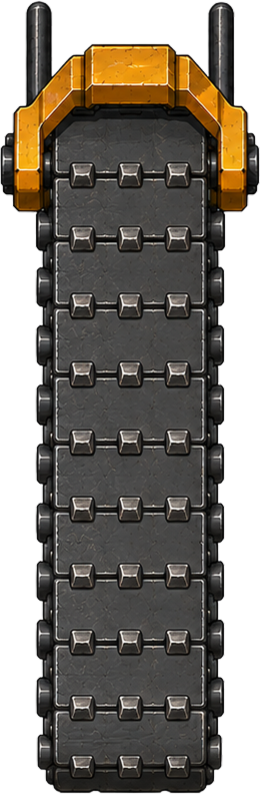
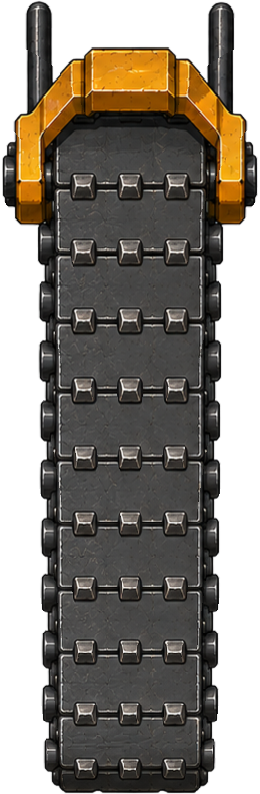
jaya

diff --git a/game.js b/game.js
@@ -296,9 +296,15 @@ class GameScene extends Phaser.Scene {
         // Shared white glow texture used by charge effects (additive blend)
         this.load.image('glow', 'graphics/gadgets/glow.png');
 
-        // The boring machine's art (sliced into tip/spiral/cap at create).
+        // The trencher's art: two parts, each its own 5-frame animation. They
+        // are separate sprites (not one sheet) so each part's frames stay
+        // coherent on their own — see TUNNEL.TRENCHER.
         if (CONFIG.ROAD && CONFIG.ROAD.ENABLED) {
-            this.load.image('auger_src', 'graphics/auger.png');
+            const TR = CONFIG.ROAD.TUNNEL.TRENCHER;
+            for (let i = 1; i <= (TR.FRAMES || 5); i++) {
+                this.load.image(`trencher_belt_${i}`, `graphics/trencher/belt/belt${i}.png`);
+                this.load.image(`trencher_ctrl_${i}`, `graphics/trencher/control_unit/control_unit${i}.png`);
+            }
         }
 
         // Tile map: the level layout (.tmj) plus one image per tile type.
@@ -1697,17 +1703,15 @@ console.log(
     }
 
     // ================================================================
-    // THE BORING MACHINE (battery-powered)
+    // THE TRENCHING MACHINE (battery-powered)
     // ================================================================
-    // Merged batteries bank digging distance; the auger cuts the channel
-    // bottom → top. The apparent rotation is the barber-pole illusion: a helix
-    // spinning about its long axis reads, from above, as its flights sliding
-    // ALONG the axis — so the shaft is a TileSprite whose helix texture
-    // scrolls, with the cylinder shading baked in per-column (x-only, so
-    // scrolling never disturbs it).
+    // Merged batteries bank digging distance; the trencher cuts the channel
+    // bottom → top. It is a heavy trencher, not a borer: the spiked belt at the
+    // front chews the face and the rig REVERSES up the band as the trench opens
+    // behind it, control unit trailing. Both parts are driven by one number —
+    // the reveal line (progressPx) — so they can never drift apart.
     createTunnel(band, seg) {
         const TN = CONFIG.ROAD.TUNNEL;
-        const s  = (v) => v * this.layoutConfig.platformScale;
         const r  = this.road;
 
         // Entry = the head of the canal already built at the bottom of the
@@ -1718,25 +1722,37 @@ console.log(
         const exitY  = band.bandTop;
         const len    = entryY - exitY;
 
-        // The bore is the channel plus a margin of loose ground each side.
-        const margin = s(TN.MARGIN);
-        const boreW  = r.canalW + margin * 2;
-        // The machine is the auger.png art, sliced into tip / spiral / cap by
-        // _makeTunnelTextures. Its flight is the widest part, scaled to nearly
-        // fill the bore.
-        const mw = Math.max(8, Math.round(boreW * (TN.BLADE_DIAM || 0.82)));
-        // The soil strip is CHANNEL-sized, not bore-sized: what the blade
-        // leaves behind is exactly as wide as the finished canal.
+        // The soil strip is CHANNEL-sized: what the machine leaves behind is
+        // exactly as wide as the finished canal.
         const cutW = Math.round(r.canalW);
         this._makeTunnelTextures(cutW);
 
-        const bladeLen = s(TN.BLADE_LEN);
-        // One uniform scale maps the art onto the machine width; tip and cap
-        // keep the art's proportions, the spiral section fills the rest of
-        // BLADE_LEN (measured behind the face).
-        const sc    = mw / this.textures.get('auger_mid').getSourceImage().width;
-        const capH  = this.textures.get('auger_tail').getSourceImage().height * sc;
-        const bodyH = Math.max(4, bladeLen - capH);
+        // ── Trencher geometry ─────────────────────────────────────────────
+        // One ratio sizes the whole rig: the belt art's width maps onto
+        // BELT_TILES tile widths, and every other source-px number rides that
+        // same ratio, so the two parts keep their authored proportions and
+        // their spacing at any tile size.
+        const TR   = TN.TRENCHER;
+        // Off the tilemap (no grid) the main canal's own width stands in: it is
+        // MAIN_TILES tiles across.
+        const tile = (this.tileGrid && this.tileGrid.tile)
+                   || r.canalW / (CONFIG.ROAD.TILEMAP.MAIN_TILES || 2);
+        const tsc  = tile * (TR.BELT_TILES || 1) / TR.BELT_W;
+        const beltW = TR.BELT_W * tsc, beltH = TR.BELT_H * tsc;
+        const ctrlW = TR.CTRL_W * tsc, ctrlH = TR.CTRL_H * tsc;
+        // Offsets from the reveal line (the dig runs up-screen, so -y is ahead
+        // of the machine and +y is back over the open trench). AHEAD_FRAC of
+        // the belt sits on the uncut side of the line, the rest trails over the
+        // trench; the control unit LEADS, CTRL_GAP ahead of the belt's centre.
+        const ahead  = TR.AHEAD_FRAC !== undefined ? TR.AHEAD_FRAC : 0.4;
+        const beltDY = (0.5 - ahead) * beltH;
+        const ctrlDY = beltDY - TR.CTRL_GAP * tsc;
+        // The rig's length for the water: the waterline is held back until the
+        // rear of the BELT — the trailing part — has passed, so the canal never
+        // fills under the machine.
+        const bladeLen = beltDY + beltH / 2;
+        // Spoil sprays over the belt's trailing half.
+        const bodyH = Math.max(4, beltH * (1 - ahead));
 
         // The water for the whole stretch is drawn complete at create and
         // hidden behind a mask that follows the blade, so it appears
@@ -1765,31 +1781,30 @@ console.log(
         const revealMask = maskShape.createGeometryMask();
         roadGfx.setMask(revealMask);
 
-        // The machine: a FIXED-length rig that climbs with the face — head at
-        // the front, a machine-length of auger behind it. It parks at the head
-        // of the built canal and digs upward. Drawn above the water it leaves.
+        // The machine: a fixed rig that travels with the face. It parks at the
+        // head of the built canal and works upward. Drawn above the water it
+        // leaves behind.
         const x = band.cx;
         // The raw cut: a strip of churned soil over the dug wake, face back
         // to the mouth it started from.
         const cut = this._addB(this.add.tileSprite(x, entryY, cutW, 1, 'cut_sand')
             .setOrigin(0.5, 0).setDepth(2.05).setVisible(false), seg);
-        // Three stacked slices of the art: pointed tip biting into the face,
-        // the spiral section behind it (a TileSprite — scrolling its UVs is
-        // the rotation), and the drive cap at the rear. The slice edges all
-        // sit at bare-shaft rows, so they join cleanly.
-        const head = this._addB(this.add.image(x, entryY, 'auger_tip')
-            .setOrigin(0.5, 1).setScale(sc).setDepth(2.25), seg);
-        const shaft = this._addB(this.add.tileSprite(x, entryY, mw, bodyH, 'auger_mid')
-            .setOrigin(0.5, 0).setTileScale(sc).setDepth(2.2), seg);
-        const tail = this._addB(this.add.image(x, entryY + bodyH, 'auger_tail')
-            .setOrigin(0.5, 0).setScale(sc).setDepth(2.2), seg);
-        const wobble = this.tweens.add({ targets: head, x: x + Math.max(1, s(0.8)),
-                          duration: 55, yoyo: true, repeat: -1, paused: true });
-        const bore = { x, cut, shaft, tail, head, wobble };
+        // Two sprites, one rig. The trenching unit is drawn ABOVE the control
+        // unit so the belt reads as passing over the machine's frame. Both are
+        // parked on frame 1 and only run while the machine is working.
+        this._makeTrencherAnims();
+        const flip = !!TR.FLIP_Y;
+        const belt = this._addB(this.add.sprite(x, entryY + beltDY, 'trencher_belt_1')
+            .setDisplaySize(beltW, beltH).setFlipY(flip).setDepth(2.25), seg);
+        const ctrl = this._addB(this.add.sprite(x, entryY + ctrlDY, 'trencher_ctrl_1')
+            .setDisplaySize(ctrlW, ctrlH).setFlipY(flip).setDepth(2.2), seg);
+        belt.play('trencher_belt'); belt.anims.pause();
+        ctrl.play('trencher_ctrl'); ctrl.anims.pause();
+        const bore = { x, cut, belt, ctrl, beltDY, ctrlDY, rigW: beltW };
 
         // No grass overlay in tile-map mode — the base layer already shows
         // grass down the centre, and the flood reveals the dug main-canal tiles
-        // over it as the auger climbs.
+        // over it as the machine climbs.
 
         // Cracks in the grass just ahead of the blade — drawn over the not-yet
         // dug ground (below the machine), redrawn each frame at the current
@@ -1798,12 +1813,12 @@ console.log(
         crack._noRebase = true;
 
         // The machine advances off a banked-charge account: one progress
-        // value drives the shaft, the mask and the head.
+        // value drives the rig, the mask and the reveal.
         this.tunnel = {
-            entryY, exitY, len, bladeLen, bodyH, texScale: sc,
+            entryY, exitY, len, bladeLen, bodyH,
             progressPx: 0, earnedPx: 0, open: false, lastTime: 0, pulseT: 0,
             wet: 0,                          // how far the water has actually come
-            bore, maskShape, foam: foamGfx, crack, crackW: mw, chips: [], debrisAcc: 0,
+            bore, maskShape, foam: foamGfx, crack, crackW: beltW, chips: [], debrisAcc: 0,
             flood: this._buildFlood(seg, band),   // canal water (tilemap only)
             seg: seg || null,
             // A dig site built ahead (endless: the NEXT band, while the
@@ -1815,34 +1830,45 @@ console.log(
         if (seg) seg.tunnel = this.tunnel;
     }
 
-    // Slice the auger.png art into the machine's three stacked parts.
-    //
-    // The art already points UP (drill tip at the top, drive cap at the
-    // bottom) — the same way the machines drill — so the slices are straight
-    // crops, no flip. The cut rows are fractions of the art height, measured
-    // from the pixels: spiral section 0.209·H–0.828·H is exactly two flight
-    // pitches with near-bare shaft at both edges, so it tiles seamlessly and
-    // its UVs scroll forever. The static slices must contain NO ribbon (a
-    // non-scrolling wrap reads as a stalled blade): the tip is only the
-    // featureless cone point (above 0.118·H), the tail only bare shaft and
-    // the drive cap (below 0.828·H).
+    // The two trencher loops, built once and shared by every segment's rig.
+    // Each part's frames are separate images (not a sheet), so the animation is
+    // an explicit frame list. Both loop forever; the machine drives them by
+    // pausing/resuming, never by restarting — a resumed loop carries on from
+    // the frame it stopped on, which is what makes a stall read as a stall.
+    _makeTrencherAnims() {
+        if (this.anims.exists('trencher_belt')) return;
+        const TR = CONFIG.ROAD.TUNNEL.TRENCHER;
+        const n  = TR.FRAMES || 5;
+        const list = (prefix) => {
+            const f = [];
+            for (let i = 1; i <= n; i++) f.push({ key: `${prefix}${i}` });
+            return f;
+        };
+        this.anims.create({ key: 'trencher_belt', frames: list('trencher_belt_'),
+                            frameRate: TR.BELT_FPS || 12, repeat: -1 });
+        this.anims.create({ key: 'trencher_ctrl', frames: list('trencher_ctrl_'),
+                            frameRate: TR.CTRL_FPS || 12, repeat: -1 });
+    }
+
+    // Belt runs only while the machine is actually cutting; the control unit
+    // only while the rig is actually travelling. Anything else freezes both on
+    // the frame they stopped at.
+    _setTrencherRunning(tn, cutting, moving) {
+        const b = tn && tn.bore;
+        if (!b || !b.belt) return;
+        const set = (spr, on) => {
+            if (!spr || !spr.anims) return;
+            if (on) { if (spr.anims.isPaused) spr.anims.resume(); }
+            else if (!spr.anims.isPaused) spr.anims.pause();
+        };
+        set(b.belt, cutting);
+        set(b.ctrl, moving);
+    }
+
     _makeTunnelTextures(cutW) {
         // Dimensions are identical for every segment, so bake once and reuse —
         // never remove textures a previous segment's sprites still display.
-        if (this.textures.exists('auger_mid') && this.textures.exists('cut_sand')) return;
-        const src = this.textures.get('auger_src').getSourceImage();
-        const sw  = src.width, sh = src.height;
-        const crop = (key, y0, y1) => {
-            const cy = Math.round(sh * y0), ch = Math.round(sh * y1) - cy;
-            if (this.textures.exists(key)) this.textures.remove(key);
-            const canvas = this.textures.createCanvas(key, sw, ch);
-            const ctx = canvas.getContext();
-            ctx.drawImage(src, 0, cy, sw, ch, 0, 0, sw, ch);
-            canvas.refresh();
-        };
-        crop('auger_tip',  0,     0.118);
-        crop('auger_mid',  0.209, 0.828);
-        crop('auger_tail', 0.828, 1);
+        if (this.textures.exists('cut_sand')) return;
 
         // The raw-cut floor: churned sand, not flat paint — per-pixel grain
         // noise, scattered darker pebbles, faint vertical drag streaks from
@@ -1970,35 +1996,30 @@ console.log(
 
         // The machine runs on the battery's 1-second pulse: each charge tick
         // arms a short burst (pulseT). Outside a burst — or with nothing owed —
-        // it sits completely dead: no spin, no wobble, no advance.
+        // it sits completely dead: belt stopped, tracks stopped, no advance.
         if (remaining <= 0.01 || tn.pulseT <= 0) {
-            const b = tn.bore;
-            if (!b.wobble.isPaused()) { b.wobble.pause(); b.head.x = b.x; }
+            this._setTrencherRunning(tn, false, false);
             return;
         }
 
         const TN = CONFIG.ROAD.TUNNEL;
-        const pulseDur = Math.max(0.05, (TN.PULSE_MS || 450) / 1000);
         // Spend what's owed evenly across the rest of the burst, so each tick's
         // banked distance is fully consumed by the time the burst ends.
         const step = Math.min(remaining, remaining * dt / tn.pulseT);
         tn.pulseT = Math.max(0, tn.pulseT - dt);
-        const wind = tn.pulseT / pulseDur;   // 1 → 0 over the burst
         tn.progressPx += step;
 
         // The face climbs from the mouth the machine started at.
         const cutH  = tn.progressPx;
         const faceY = tn.entryY - tn.progressPx;
         const b     = tn.bore;
-        if (b.wobble.isPaused()) b.wobble.resume();
-        // UV scroll = rotation: the spiral marches along the shaft (spoil
-        // being augered back out of the cut). tilePositionY is in SOURCE
-        // texture pixels, so divide by the display scale to get SCROLL px/s
-        // on screen. Winds down over the burst: jolt, then coast.
-        b.shaft.tilePositionY -= TN.SCROLL * (0.35 + 0.65 * wind) * dt / tn.texScale;
-        b.shaft.y = faceY;
-        b.tail.y  = faceY + tn.bodyH;
-        b.head.y  = faceY;
+        // Both parts hang off the reveal line by their fixed offsets — that is
+        // the whole of the rig's motion, so they can never separate. The belt
+        // cuts (it is trenching, on battery), the control unit's tracks turn
+        // only while the rig is really travelling backwards.
+        b.belt.y = faceY + b.beltDY;
+        b.ctrl.y = faceY + b.ctrlDY;
+        this._setTrencherRunning(tn, true, step > 0.01);
         // The soil strip in the wake is no longer shown — the ditch sprite is
         // what gets uncovered as the grass recedes. (The cut sprite is kept only
         // so its width still feeds the foam-finger layout.)
@@ -2096,7 +2117,7 @@ console.log(
     _spawnTunnelChip(b, faceY) {
         const tn   = this.tunnel;
         const TN   = CONFIG.ROAD.TUNNEL;
-        const half = b.shaft.width / 2;
+        const rigW = b.rigW;
         const grab = (tex, depth) => {
             const o = tn.chips.pop() ||
                 this._addB(this.add.image(0, 0, tex), tn.seg);
@@ -2116,7 +2137,7 @@ console.log(
             const chip = grab('debris_chip', 2.3)
                 .setTint(tint)
                 .setAngle(Math.random() * 90)          // varied square orientation
-                .setPosition(b.x + off * b.shaft.width * 0.9,
+                .setPosition(b.x + off * rigW * 0.9,
                              faceY + Math.random() * tn.bodyH * 0.5)
                 .setScale(0.8 + Math.random() * 0.8)
                 .setAlpha(1);
@@ -2135,7 +2156,7 @@ console.log(
         if (Math.random() < 0.8) {
             const puff = grab('dust_puff', 2.35)
                 .setTint(TN.DUST_COLOR)
-                .setPosition(b.x + (Math.random() - 0.5) * b.shaft.width * 0.7,
+                .setPosition(b.x + (Math.random() - 0.5) * rigW * 0.7,
                              faceY + Math.random() * tn.bodyH * 0.4)
                 .setScale(0.6 + Math.random() * 0.4)
                 .setAlpha(0.55);
@@ -2162,8 +2183,8 @@ console.log(
         if (tn.open) return;
         tn.open = true;
 
-        this.tweens.killTweensOf(tn.bore.head);
-        const parts = [tn.bore.shaft, tn.bore.tail, tn.bore.head];
+        this._setTrencherRunning(tn, false, false);
+        const parts = [tn.bore.belt, tn.bore.ctrl];
         this.tweens.add({
             targets: parts,
             alpha: 0, duration: 700,

diff --git a/config.js b/config.js
@@ -690,24 +690,57 @@ var CONFIG = {
                                    // machine — it spins and advances for this long,
                                    // then sits dead until the next tick
             ADVANCE_PER_CHARGE: 2, // px of digging banked per unit of battery charge
-            SCROLL: 90,            // UV scroll speed (screen px/s) on the auger's
-                                   // spiral section — the perceived rotation speed
-            BLADE_LEN: 72,         // FIXED machine length (px @ platformScale): the
-                                   // rig climbs with the face rather than being a
-                                   // shaft stretching back to where it started.
-                                   // Width comes from BLADE_DIAM × the bore, so move
-                                   // the two together to keep the rig's proportions
-            BLADE_DIAM: 0.82,      // machine width (the auger art's flight is its
-                                   // widest part) as a fraction of the bore
             MARGIN: 9,             // loose ground the bore takes beyond the channel
-                                   // on each side (px @ platformScale). The machine
-                                   // is sized off the bore, so this widens it too
+                                   // on each side (px @ platformScale)
+
+            // ── The trencher ──────────────────────────────────────────────
+            // A heavy trenching machine, drawn as TWO sprites that move as one
+            // rig: the trenching unit (the spiked belt) straddles the reveal
+            // line at the FRONT, the control unit trails behind it. They are
+            // separate only so each part's AI-drawn frames stay coherent on
+            // their own — never move one without the other.
+            //
+            // The machine works BACKWARDS: it drives up-screen with the control
+            // unit LEADING, dragging the belt behind it — so along the canal the
+            // belt is the part nearest the finished trench and the control unit
+            // is the part farthest from it, out over untouched ground. Its
+            // displacement is the reveal line's, nothing else — see
+            // _updateTunnel.
+            //
+            // SIZING: one ratio does everything. The BELT's width maps onto
+            // BELT_TILES tile widths; every other number below is source px of
+            // the same art, scaled by that same ratio — so the two parts keep
+            // their authored proportions and spacing at any tile size. At 1.5
+            // the control unit comes out ≈2.28 tiles wide (396/260 × 1.5).
+            TRENCHER: {
+                FRAMES:     5,     // frames per part (belt1..5 / control_unit1..5)
+                BELT_W:     260,   // trenching-unit art size (source px)
+                BELT_H:     794,
+                CTRL_W:     396,   // control-unit art size (source px)
+                CTRL_H:     492,
+                CTRL_GAP:   566,   // belt centre → control centre, AHEAD of the
+                                   // belt (source px, same ratio as the sizes):
+                                   // the control unit leads, the belt trails at
+                                   // the trench it is cutting
+                BELT_TILES: 1.9,   // belt width in tile widths — the scale anchor
+                                   // (the trenching unit spans 1.5 tiles; every
+                                   //  other dimension follows from this)
+                AHEAD_FRAC: 0.4,   // fraction of the belt's height sitting AHEAD
+                                   // of the reveal line (uncut side); the other
+                                   // 0.6 trails over the open trench
+                BELT_FPS:   50,    // belt cycle speed  (calibrate)
+                CTRL_FPS:   12,    // control-unit cycle speed (calibrate)
+                FLIP_Y:     false, // the dig runs UP the screen; flip both parts
+                                   // if the art is drawn facing the other way
+                                   // (flips the pair together — the offsets are
+                                   //  measured from the reveal line either way)
+            },
 
             // (the last dry stretch is flooded by the water's own flow — see
             //  WATER.FLOW_TAU / MIN_SPEED, not a timed animation)
 
             // ── Colours ───────────────────────────────────────────────────
-            // (machine look comes from graphics/auger.png)
+            // (machine look comes from graphics/trencher/)
             CUT_COLOR:     0x84694a,  // raw soil exposed in the cut under the
                                       // machine, before the water reaches it
             DEBRIS_COLORS: [0x6e4a21, 0xa97537],
@@ -724,7 +757,7 @@ var CONFIG = {
             CRACK: {
                 ENABLED: true,
                 LEN:     52,          // reveal window ahead of the face (px @ platformScale)
-                WIDTH:   0.5,         // crack spread as a fraction of the auger width
+                WIDTH:   0.5,         // crack spread as a fraction of the belt width
                 LINES:   2,           // number of main cracks down the column
                 COLOR:   0x3c2c1a,    // dark earth in the split
                 ALPHA:   0.6,         // opacity at the face (fades to 0 over LEN)
